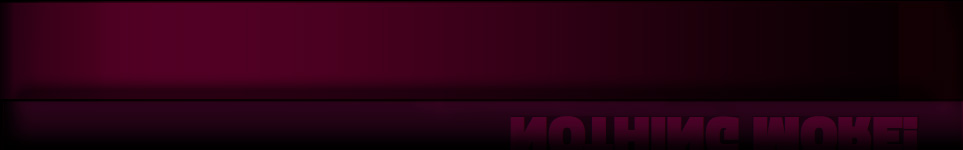
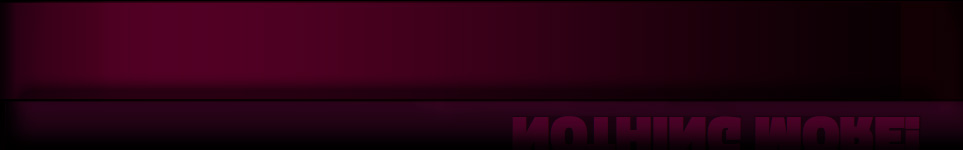
tweeking header bg

diff --git a/project/css/style.css b/project/css/style.css
@@ -82,13 +82,16 @@ header{
 	height: 150px;
   /*padding-left: 1.04384134%; 10px*
   padding-right: 1.04384134%;*/
-	border: 1px solid #cccccc;
+	border: 1px solid #fff;
 	-moz-border-radius: 4px;
 	-webkit-border-radius: 4px;
   border-radius: 4px;
 	float: left;
 	clear: right;
 }
+
+.header-wrapper {background:#000 url('http://loydphillips.github.com/WSP-Loyd-Phillips/activities/image_elements/hdr-bg.jpg') no-repeat center top;}
+
 
 .logo {
   /*display: block;*/
@@ -136,7 +139,7 @@ header{
 }
 
 .header-text-three{
-	width: 50.9394572%;
+	width: 50.9394572%; /*488 / 958*/
 	font-size: 3.5em;
 	font-family: "Titillium Web", "Racing Sans One", "Arial Black";
   color: #b70057;
